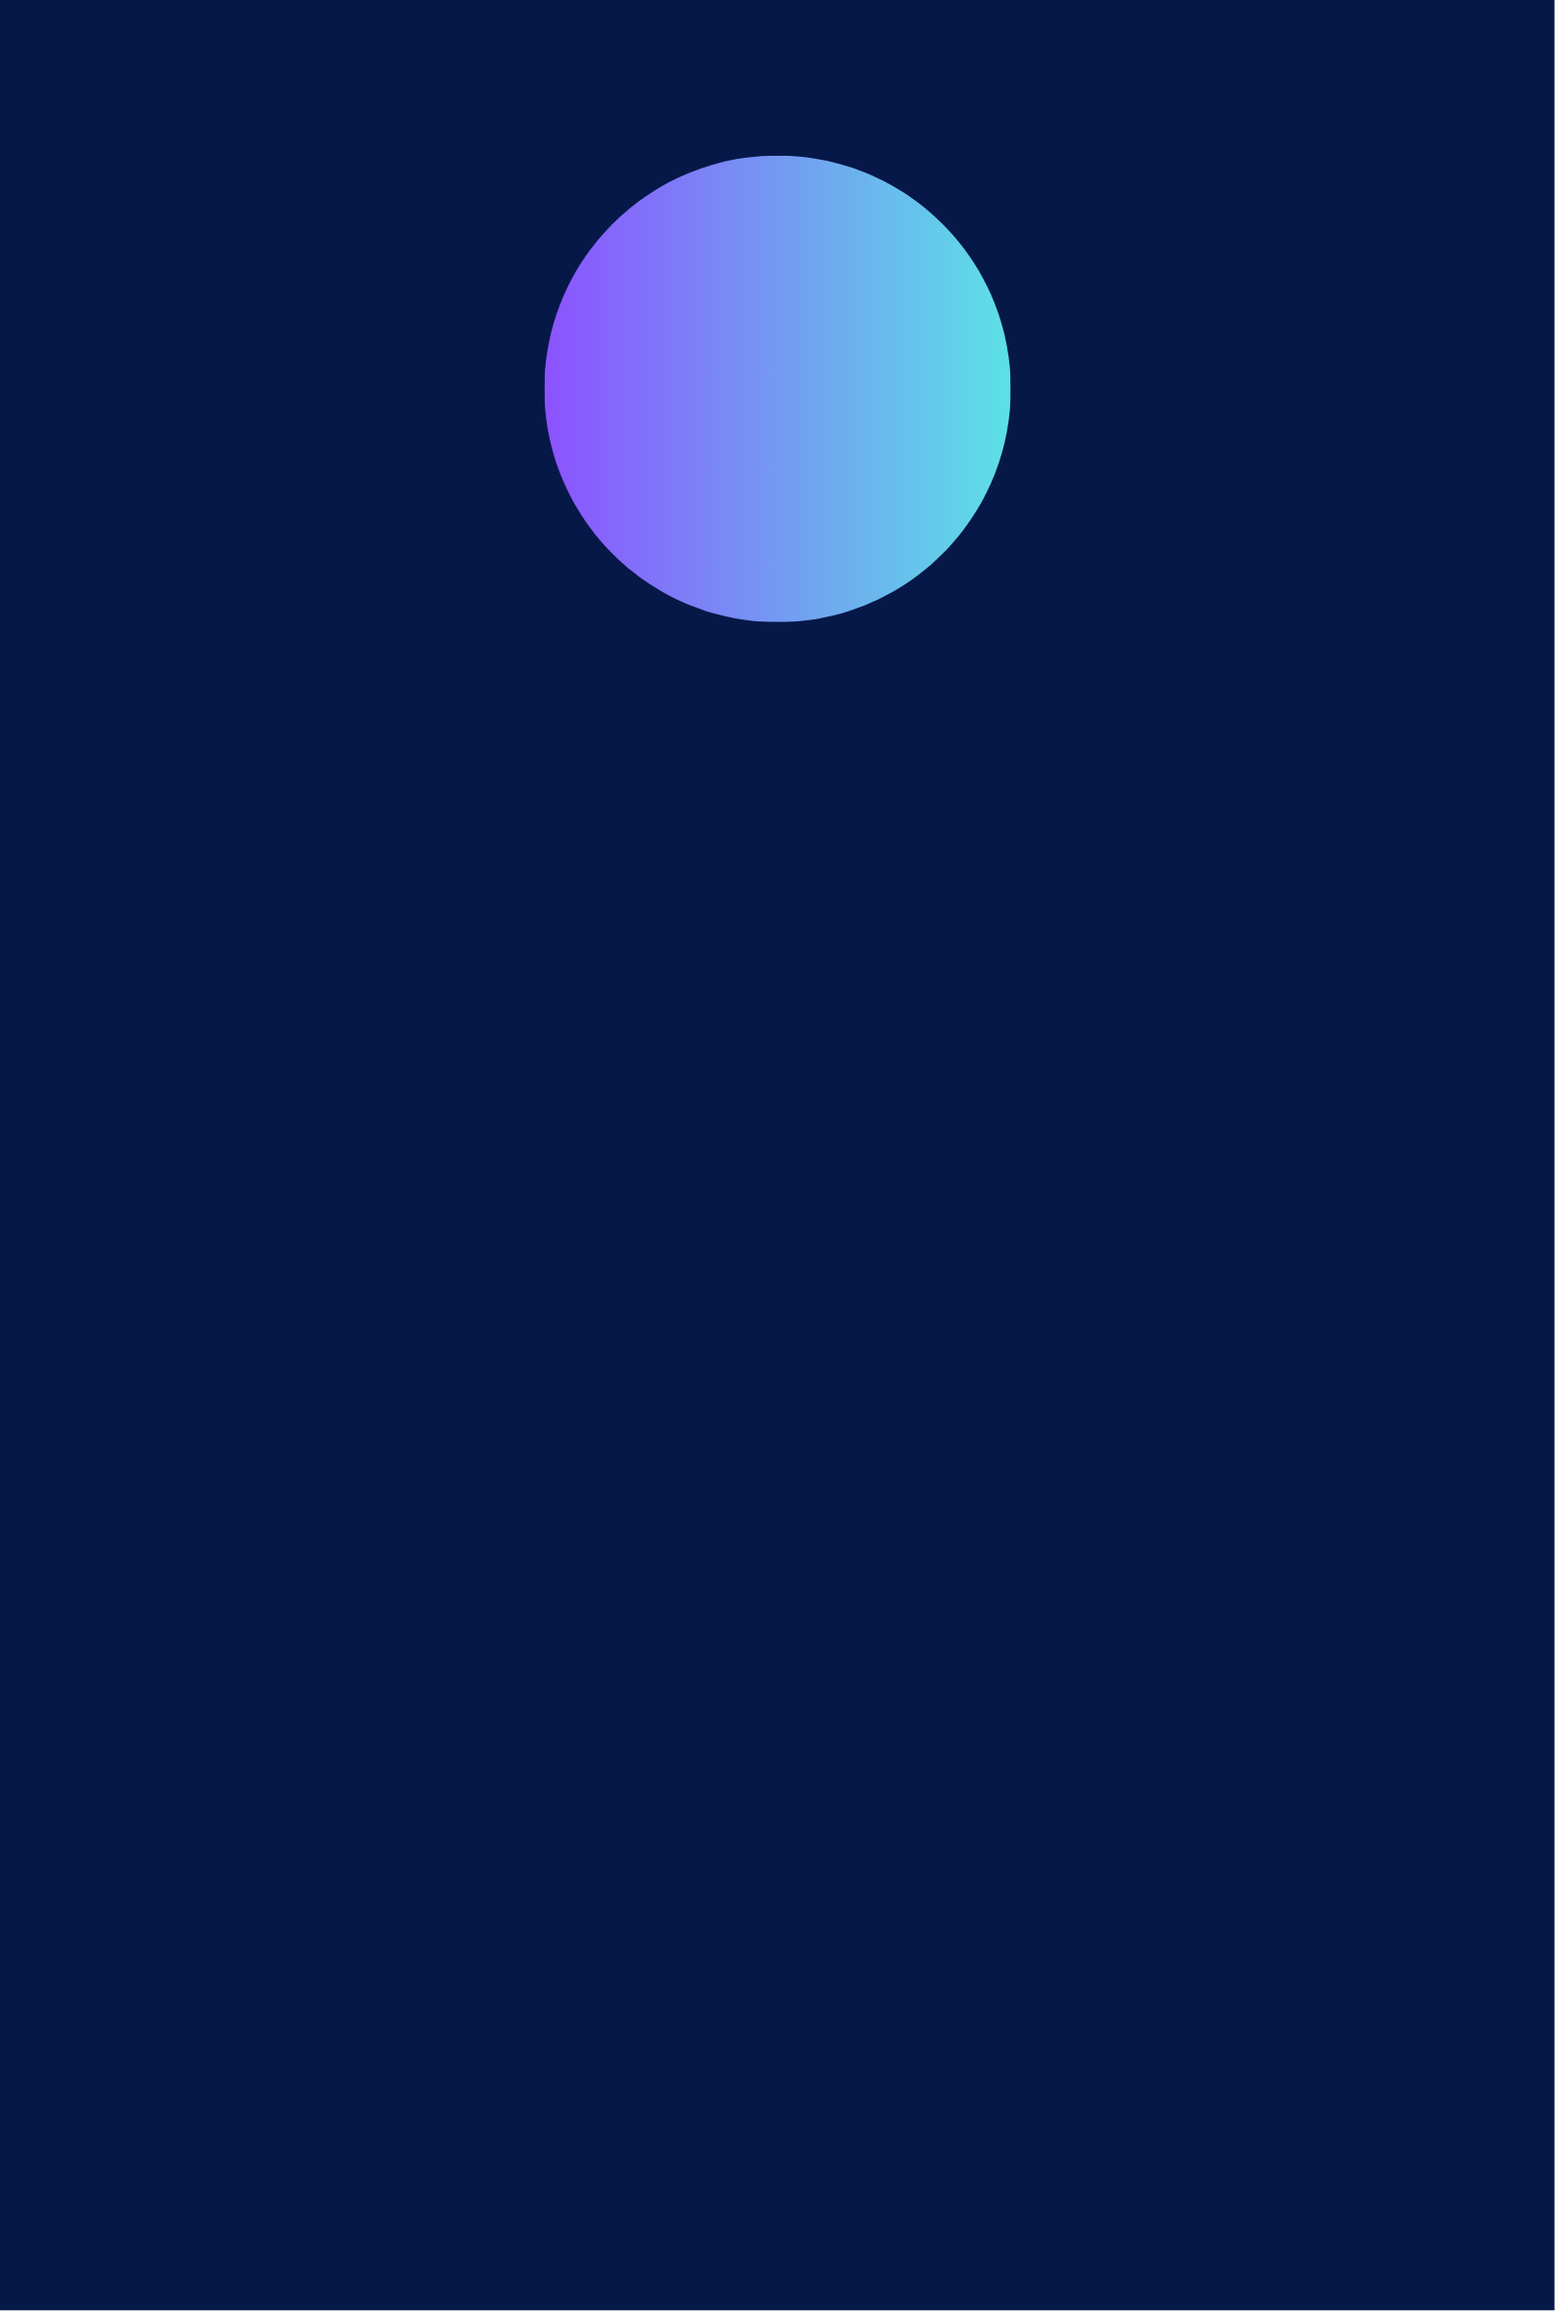
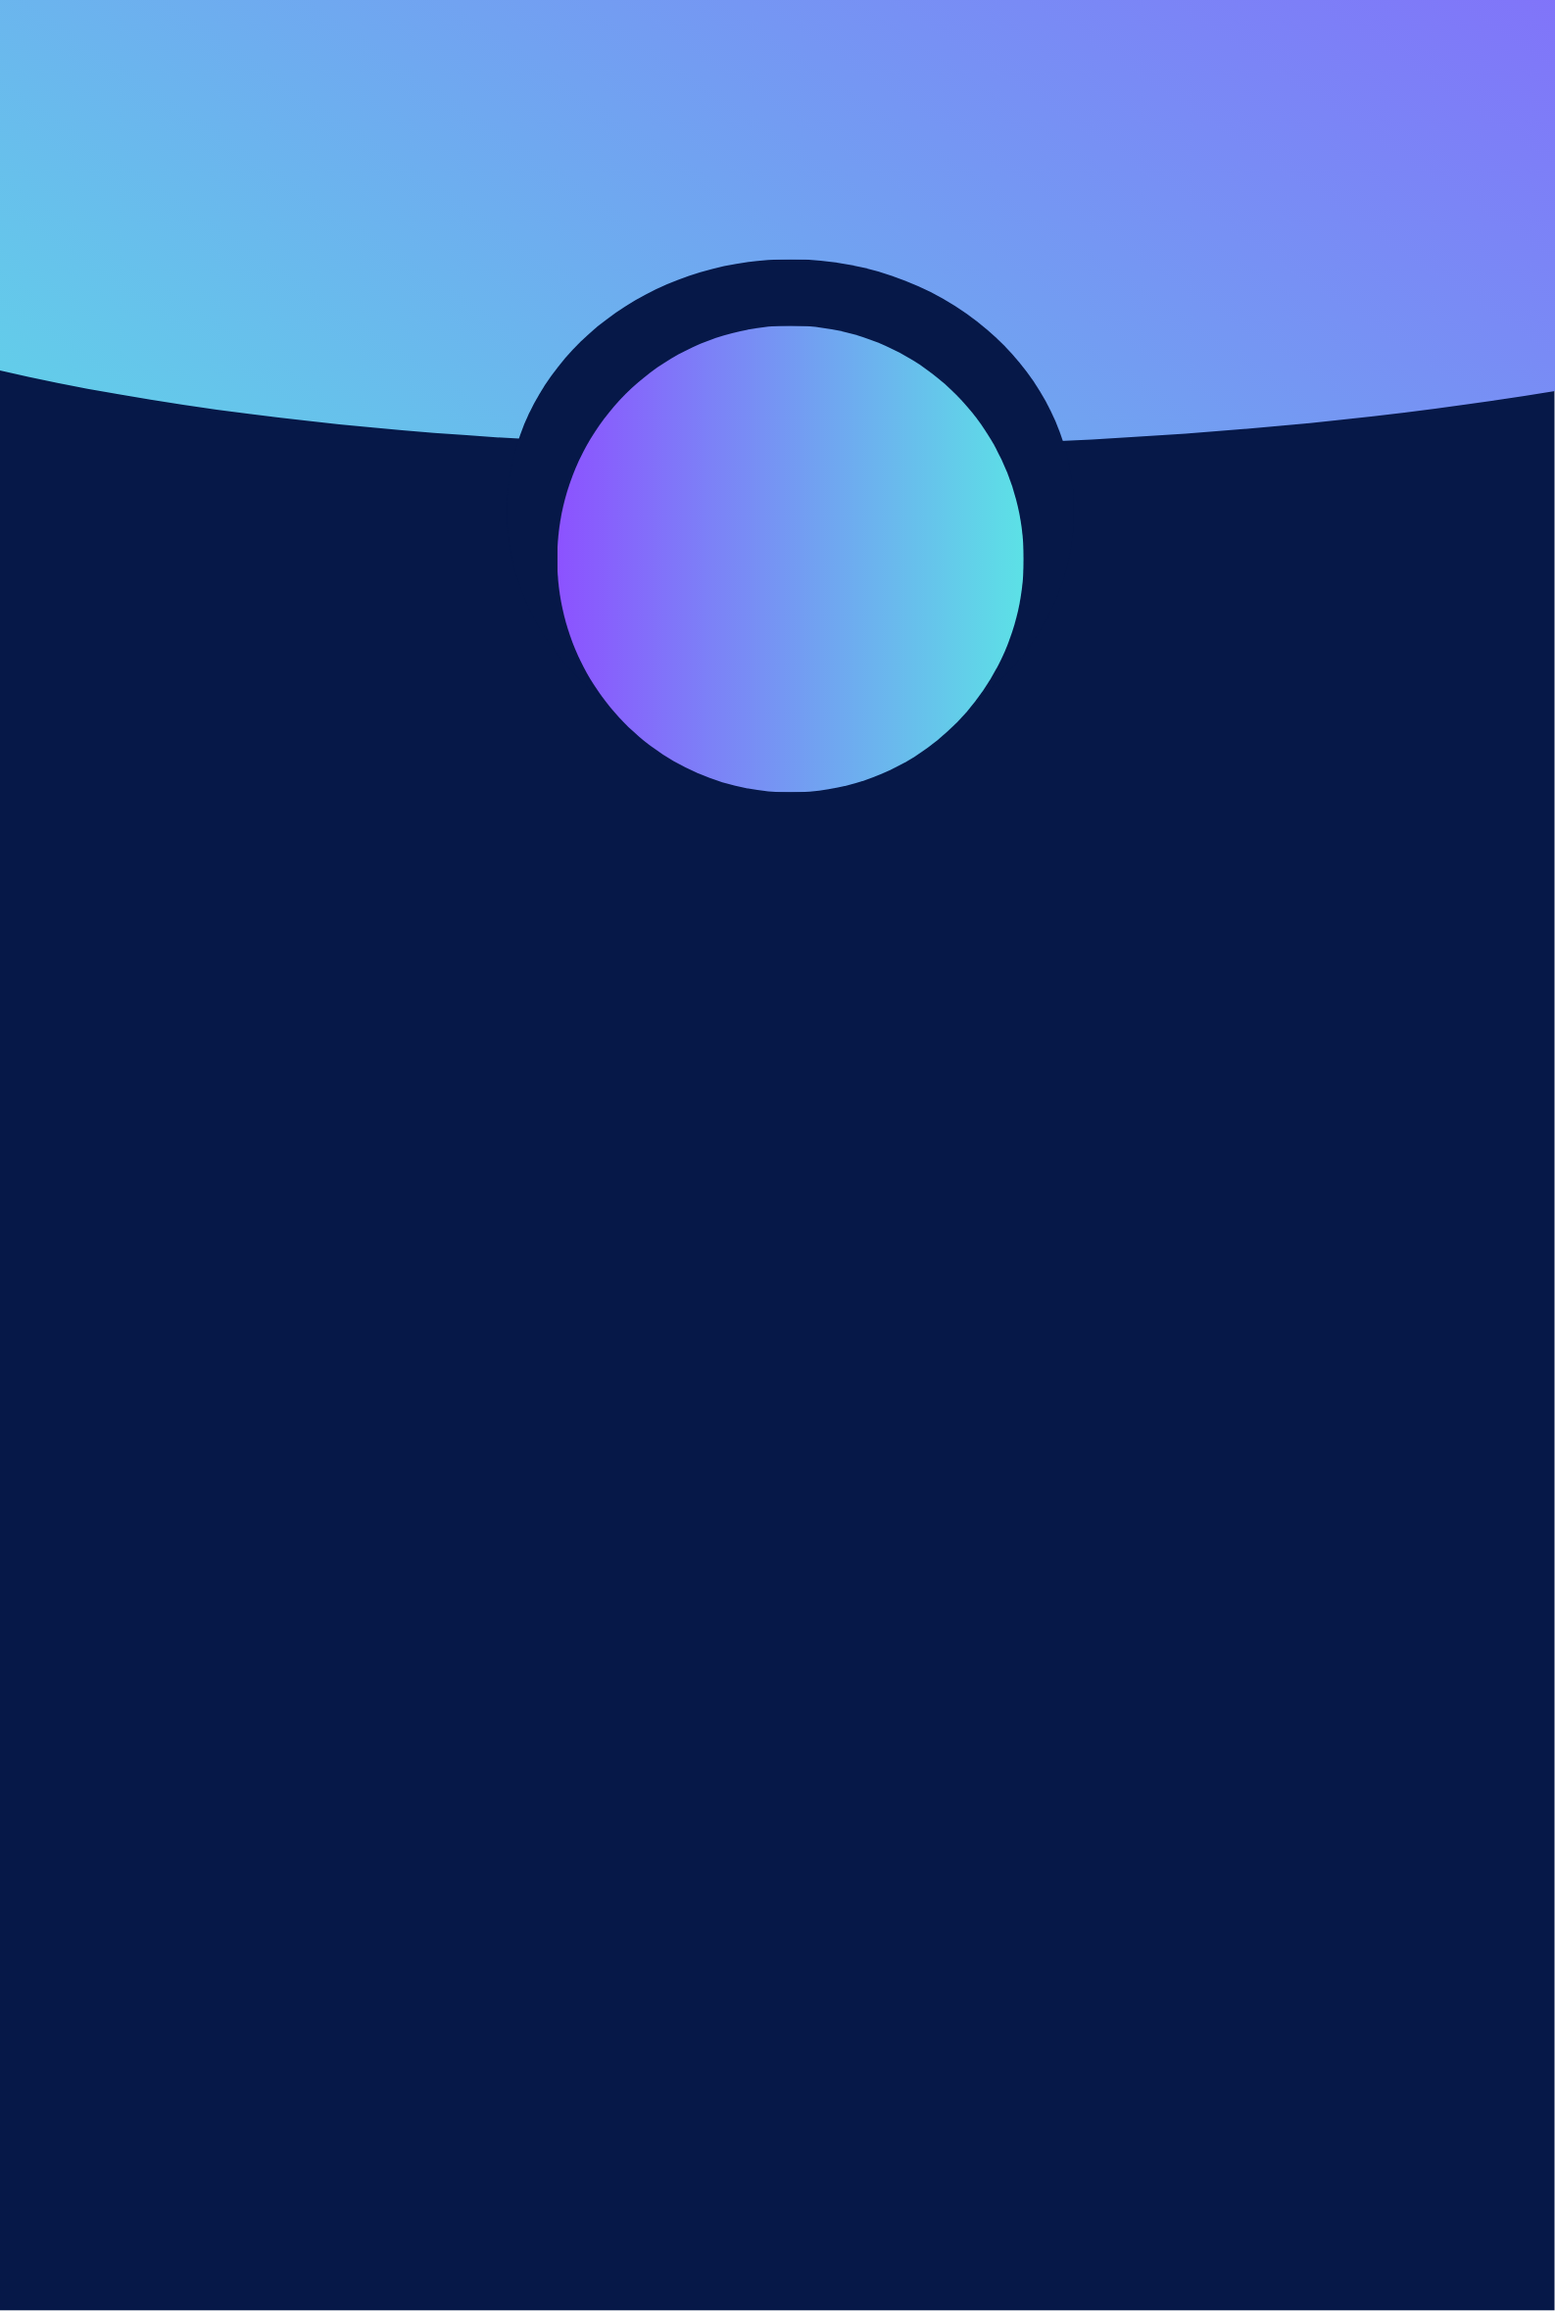
design

Changed region(s): [[0.0, 0.0, 1.0, 0.3405]]

diff --git a/src/pages/PassengerProfilePage.js b/src/pages/PassengerProfilePage.js
@@ -9,6 +9,7 @@ import {
   TouchableOpacity,
   Modal,
   ImageBackground,
+  Dimensions,
 } from "react-native";
 import UserAvatar from "react-native-user-avatar";
 // import { ScrollView } from "react-native-gesture-handler";
@@ -159,91 +160,97 @@ export default function PassengerProfilePage(props) {
         resizeMode="cover"
         style={styles.image}
       >
-        {/* <View style={styles.color}>
+        <View style={styles.container}>
+          {/* <View style={styles.color}>
           <Text></Text>
         </View> */}
-        <View style={{ alignItems: "center" }}>
-          <TouchableOpacity>
-            {imageProfile ? (
-              <Image source={{ uri: imageProfile }} style={styles.avatar} />
-            ) : (
-              <UserAvatar size={110} name={fullName} style={styles.avatar} />
-            )}
-          </TouchableOpacity>
-          <Modal visible={isPopupVisible} onRequestClose={closePopup}>
-            <View style={styles.popupContainer}>
-              <Image
-                // source={require("path/to/profile/image")}
-                style={styles.popupImage}
-              />
-              {/* Add any additional content for the popup */}
-            </View>
-          </Modal>
-          <Icon
-            name="edit"
-            size={20}
-            style={styles.edit_icon}
+          <View style={{ alignItems: "center" }}>
+            <TouchableOpacity>
+              {imageProfile ? (
+                <Image source={{ uri: imageProfile }} style={styles.avatar} />
+              ) : (
+                <UserAvatar
+                  size={110}
+                  name={fullName}
+                  style={styles.avatar}
+                  textColor={"#061848"}
+                />
+              )}
+            </TouchableOpacity>
+            <Modal visible={isPopupVisible} onRequestClose={closePopup}>
+              <View style={styles.popupContainer}>
+                <Image
+                  // source={require("path/to/profile/image")}
+                  style={styles.popupImage}
+                />
+                {/* Add any additional content for the popup */}
+              </View>
+            </Modal>
+            <Icon
+              name="edit"
+              size={20}
+              style={styles.edit_icon}
+              onPress={() => {
+                navigation.navigate("EditPassenger", {
+                  fullName,
+                  email,
+                  imageProfile,
+                  password,
+                });
+              }}
+            ></Icon>
+          </View>
+          <Text style={styles.passenger_name}>{fullName} </Text>
+          <View style={styles.data_icons_Container}>
+            <Icon
+              name="envelope"
+              size={30}
+              color="#608cd7"
+              style={styles.email_icon}
+            />
+            <Text style={styles.passenger_email}>{email} </Text>
+            {/* <Text>{imageProfile}</Text> */}
+          </View>
+          <View style={styles.data_icons_Container}>
+            <Icon
+              name="phone"
+              size={20}
+              color="#608cd7"
+              style={styles.phone_icon}
+            />
+            <Text style={styles.passenger_phone}>{phoneNumber} </Text>
+          </View>
+          <Text style={styles.orders_title}>History Orders </Text>
+          <Button
             onPress={() => {
-              navigation.navigate("EditPassenger", {
-                fullName,
+              passengerOrderDrive(
                 email,
-                imageProfile,
-                password,
-              });
+                myLat,
+                myLon,
+                destLat,
+                destLon,
+                num,
+                userToken
+              );
             }}
-          ></Icon>
-        </View>
-        <Text style={styles.passenger_name}>{fullName} </Text>
-        <View style={styles.data_icons_Container}>
-          <Icon
-            name="envelope"
-            size={30}
-            color="#608cd7"
-            style={styles.email_icon}
-          />
-          <Text style={styles.passenger_email}>{email} </Text>
-          {/* <Text>{imageProfile}</Text> */}
-        </View>
-        <View style={styles.data_icons_Container}>
-          <Icon
-            name="phone"
-            size={20}
-            color="#608cd7"
-            style={styles.phone_icon}
-          />
-          <Text style={styles.passenger_phone}>{phoneNumber} </Text>
-        </View>
-        <Text style={styles.orders_title}>History Orders </Text>
-        <Button
-          onPress={() => {
-            passengerOrderDrive(
-              email,
-              myLat,
-              myLon,
-              destLat,
-              destLon,
-              num,
-              userToken
-            );
-          }}
-        >
-          order drive !!
-        </Button>
-        {/* <Button
+          >
+            order drive !!
+          </Button>
+          {/* <Button
         onPress={() => {
           getOrderHistory();
         }}
       >
         the irders
       </Button> */}
-        <View style={styles.orders_list}>
-          <FlatList
-            data={orders}
-            renderItem={renderItem}
-            keyExtractor={(item) => item.orderId.toString()}
-          />
+          <View style={styles.orders_list}>
+            <FlatList
+              data={orders}
+              renderItem={renderItem}
+              keyExtractor={(item) => item.orderId.toString()}
+            />
+          </View>
         </View>
-
       </ImageBackground>
     </View>
   );
@@ -254,6 +261,11 @@ const styles = StyleSheet.create({
     justifyContent: "center",
     alignItems: "center",
   },
+  image: {
+    width: Dimensions.get("window").width,
+    height: Dimensions.get("window").height,
+  },
+
   color: {
     padding: 10,
     width: "100%",
@@ -261,18 +273,19 @@ const styles = StyleSheet.create({
     height: 130,
   },
   avatar: {
-    width: 130,
-    height: 130,
+    width: 125,
+    height: 125,
     borderRadius: 100,
-    marginTop: -70,
+    marginTop: 102.5,
+    marginLeft: 9,
     backgroundColor: "white",
   },
   passenger_name: {
-    color: "black",
-    fontSize: 22,
-    marginLeft: 0,
-    marginTop: 20,
-    width: 300,
+    color: "#626FB4",
+    fontSize: 24,
+    marginLeft: 10,
+    marginTop: 70,
+    width: 400,
     textAlign: "center",
     fontWeight: "600",
   },
@@ -318,8 +331,9 @@ const styles = StyleSheet.create({
   },
   edit_icon: {
     padding: 5,
-    marginLeft: 350,
-    marginTop: -50,
+    marginLeft: 370,
+    marginTop: -90,
+    color: "white",
   },
   listContainer: {
     flexDirection: "row",

diff --git a/src/pages/DriverProfilePage.js b/src/pages/DriverProfilePage.js
@@ -2,7 +2,7 @@ import Icon from "react-native-vector-icons/FontAwesome5";
 // import Icon from "react-native-vector-icons/Feather";
 
 import React from "react";
-import { Text, View, StyleSheet, Image, TouchableOpacity,ImageBackground } from "react-native";
+import { Text, View, StyleSheet, Image, TouchableOpacity } from "react-native";
 import { Button } from "react-native-paper";
 import UserAvatar from "react-native-user-avatar";
 import { useNavigation } from "@react-navigation/native";
@@ -32,7 +32,12 @@ export default function DriverProfilePage(props) {
           {imageProfile ? (
             <Image source={{ uri: imageProfile }} style={styles.avatar} />
           ) : (
-            <UserAvatar size={110} name={fullName} style={styles.avatar} />
+            <UserAvatar
+              size={110}
+              name={fullName}
+              style={styles.avatar}
+              textColor={"#061848"}
+            />
           )}
         </TouchableOpacity>
         {forOrder === "false" && (
@@ -114,7 +119,7 @@ const styles = StyleSheet.create({
     height: 130,
     borderRadius: 100,
     marginTop: -70,
-    backgroundColor: "white",
+    backgroundColor: "#91AEC4",
   },
   driver_name: {
     color: "black",

diff --git a/src/pages/EditPassengerPage.js b/src/pages/EditPassengerPage.js
@@ -36,8 +36,7 @@ export default function EditProfilePage({ navigation, route }) {
   const [errorMessage, setErrorMessage] = useState("");
   const [successMessage, setSuccessMessage] = useState("");
   const [newImageProfile, setNewImageProfile] = useState(imageProfile);
-  // const [imageUrl, setImageUrl] = useState(null);
-  // const [savedImageUri, setSavedImageUri] = useState(null);
+ 
 
   const handleUpdate = (email, editedName) => {
     console.log(userToken);
